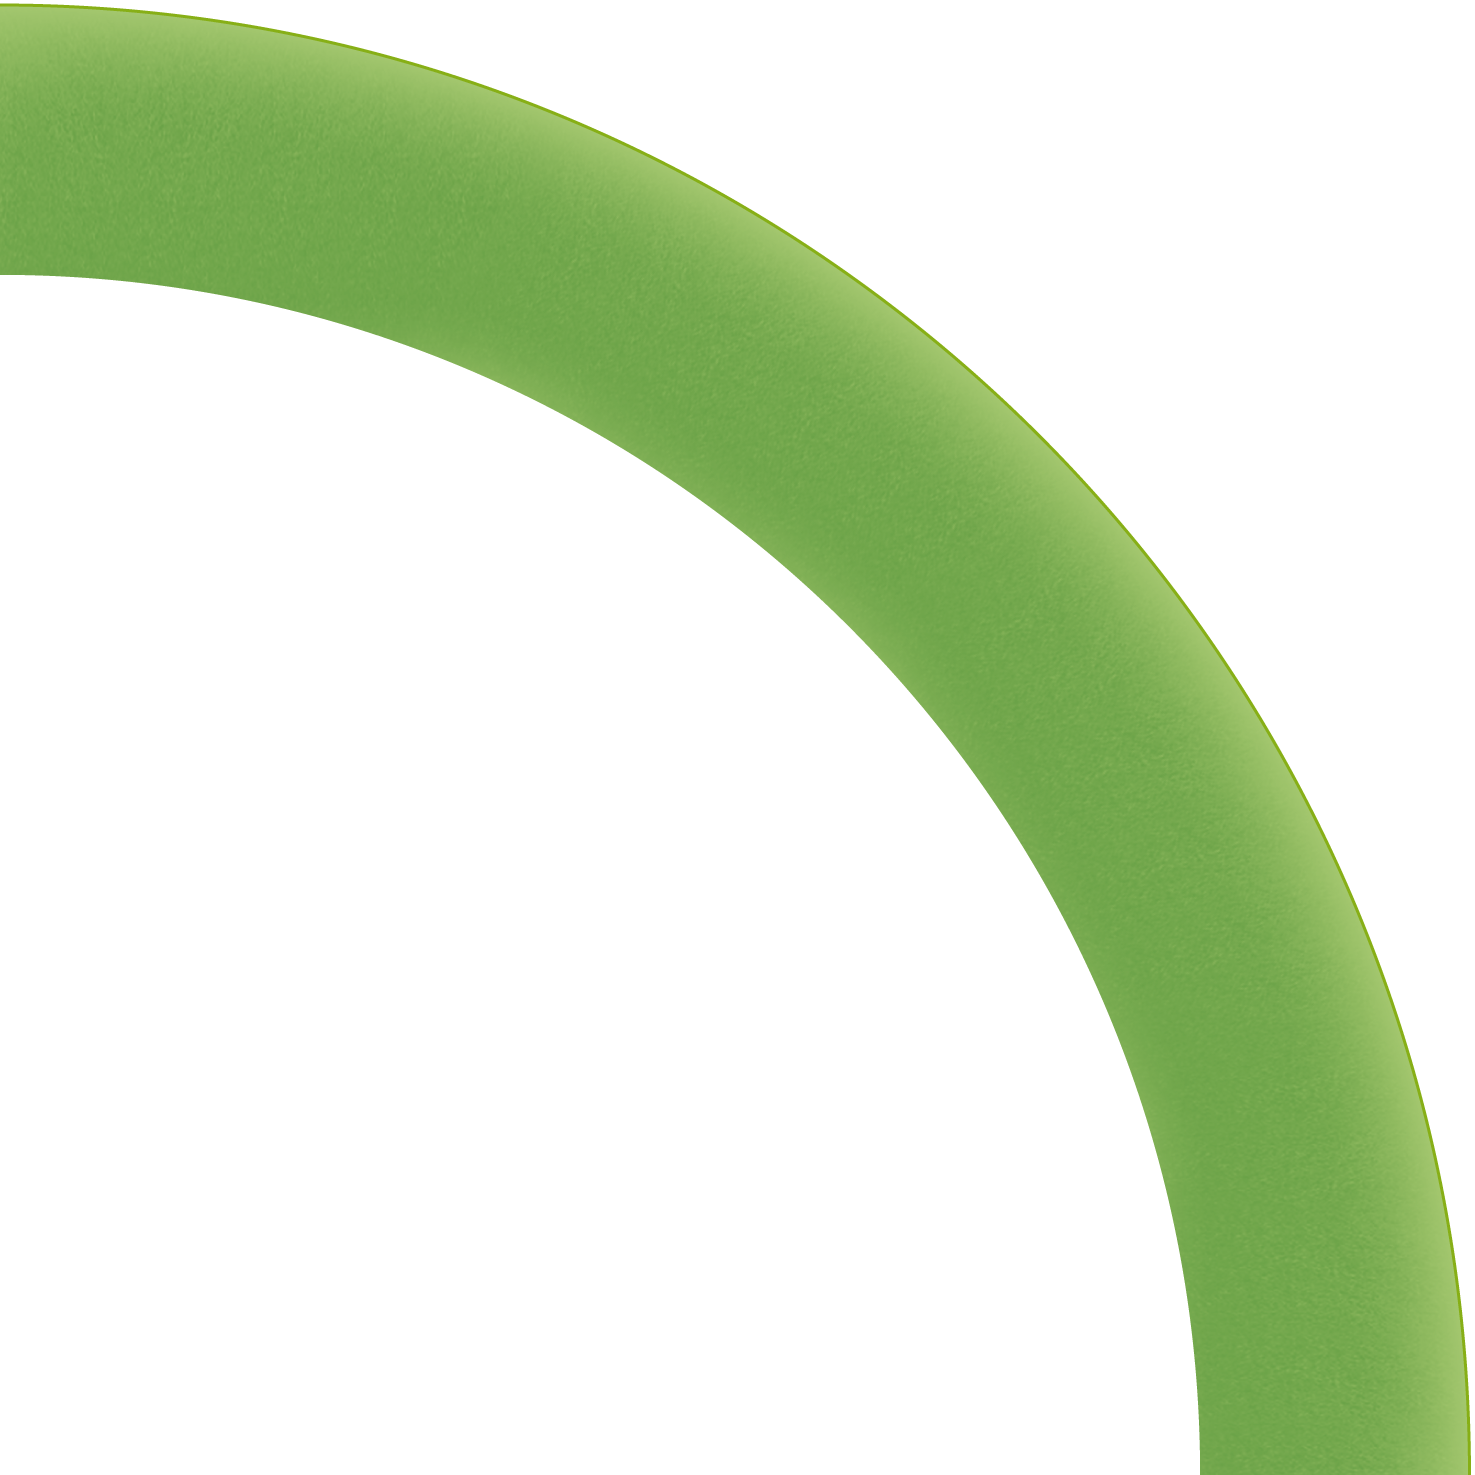
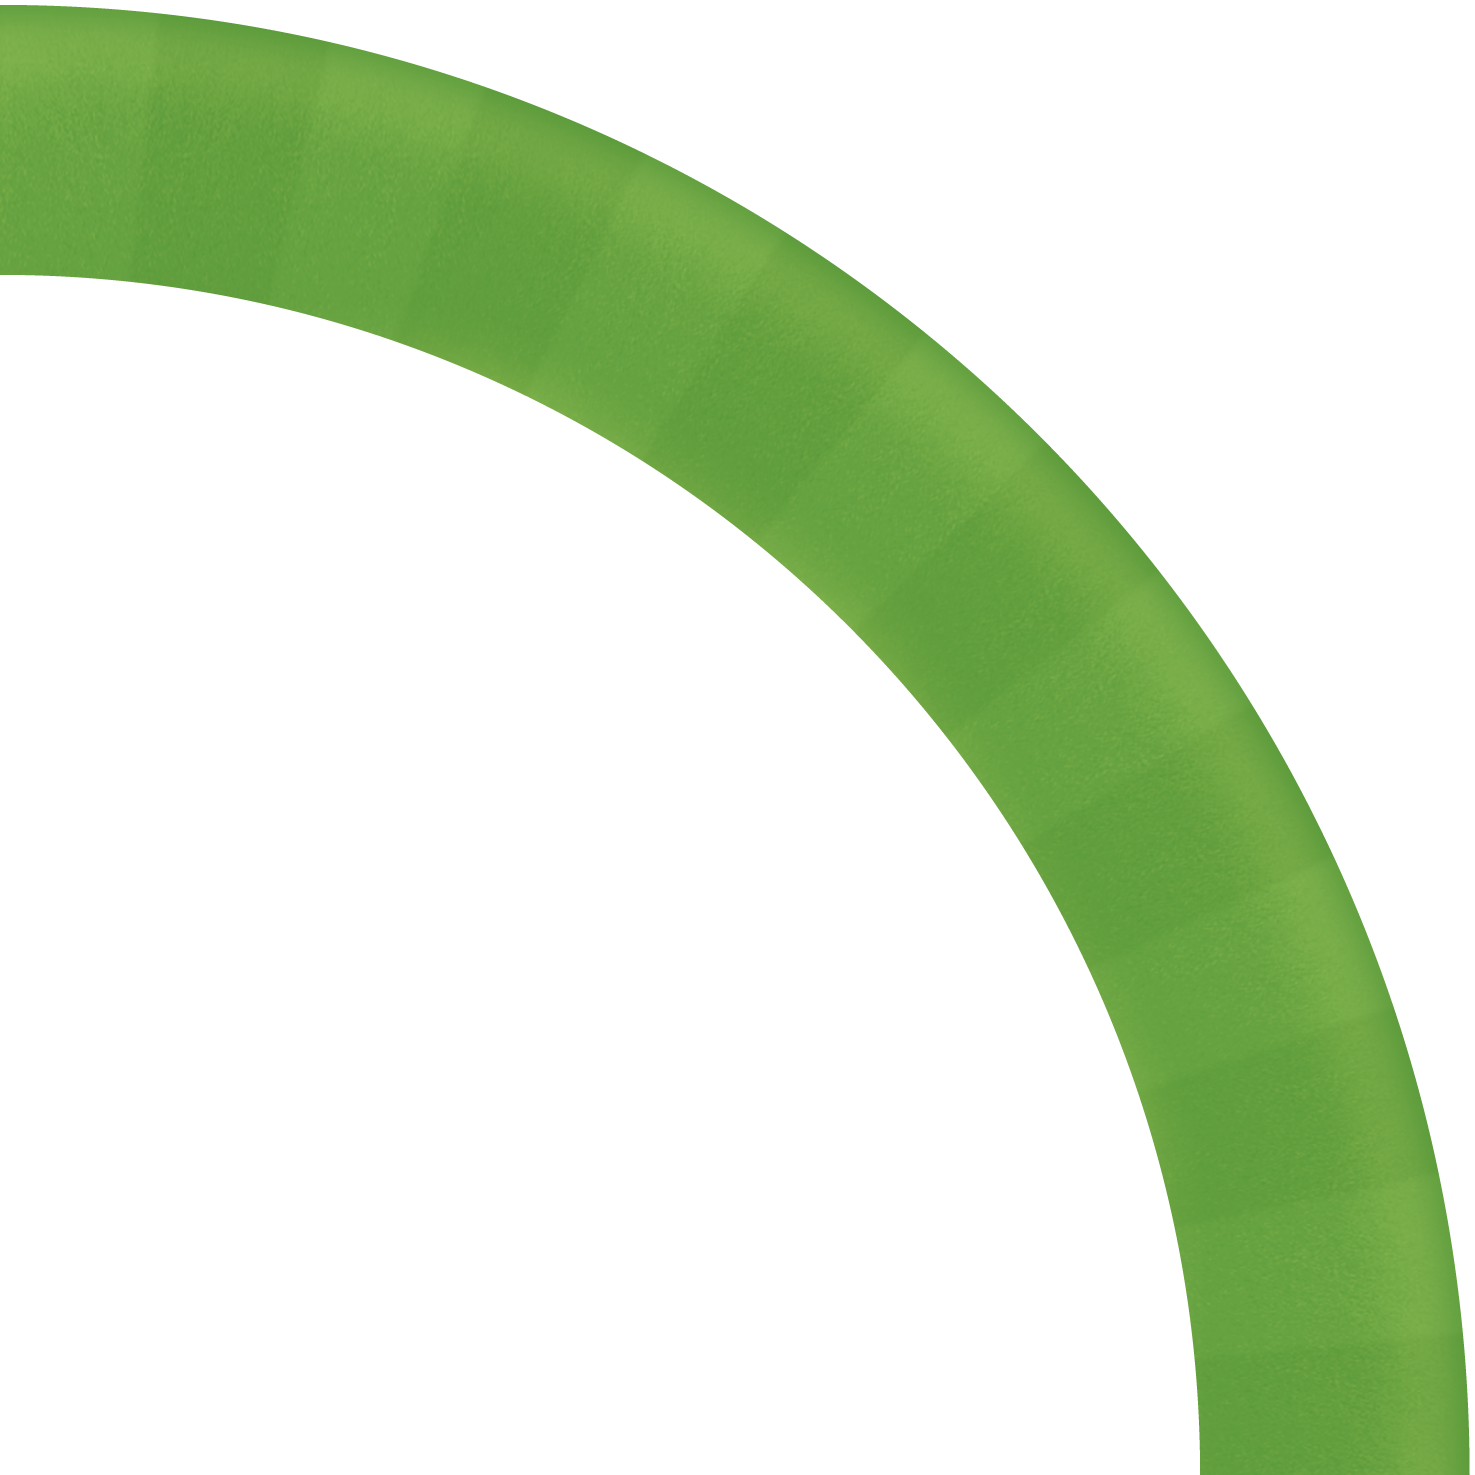
new meadow theme

Changed region(s): [[0.0, 0.0, 0.998, 1.0]]

diff --git a/client/obacht/assets/themes/themes.js b/client/obacht/assets/themes/themes.js
@@ -2,7 +2,7 @@
 
 goog.provide('obacht.themes');
 
-var theme = 'desert'; // meadow, desert, water, candy
+var theme = 'meadow'; // meadow, desert, water, candy
 
 obacht.themes = {
 
